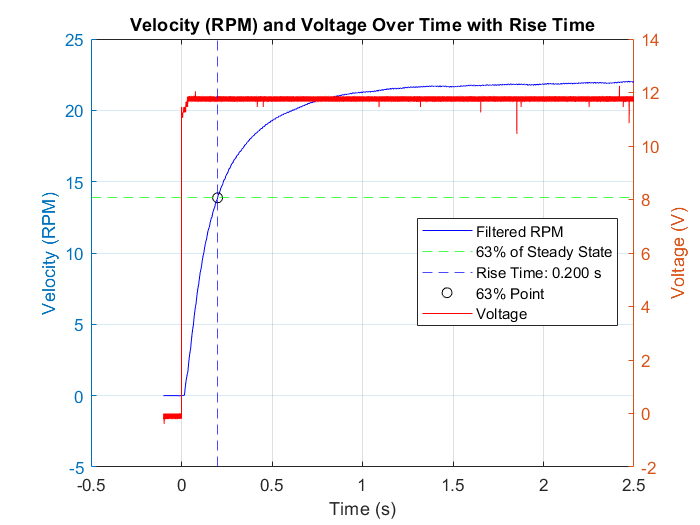
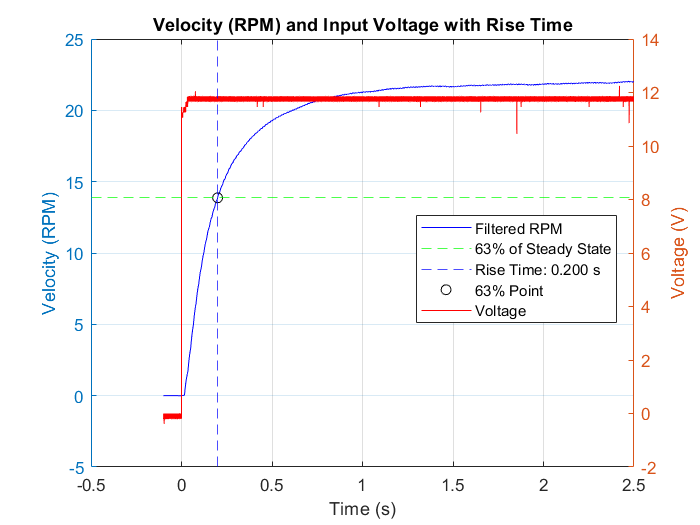
changes in step response test

Changed region(s): [[0.6, 0.3962, 0.9, 0.64], [0.18, 0.0305, 0.87, 0.061]]

diff --git a/Control/Til_mathias_den_gode_dreng/Use_this_for_PI.m b/Control/Til_mathias_den_gode_dreng/Use_this_for_PI.m
@@ -127,7 +127,7 @@ xline(rise_time, '--b', 'DisplayName', sprintf('Rise Time: %.3f s', rise_time));
 plot(rise_time, target_value, 'ko', 'DisplayName', '63% Point');
 
 % Add title and legend
-title('Velocity (RPM) and Voltage Over Time with Rise Time');
+title('Velocity (RPM) and Input Voltage with Rise Time');
 legend('show');
 grid on;
 hold off;
